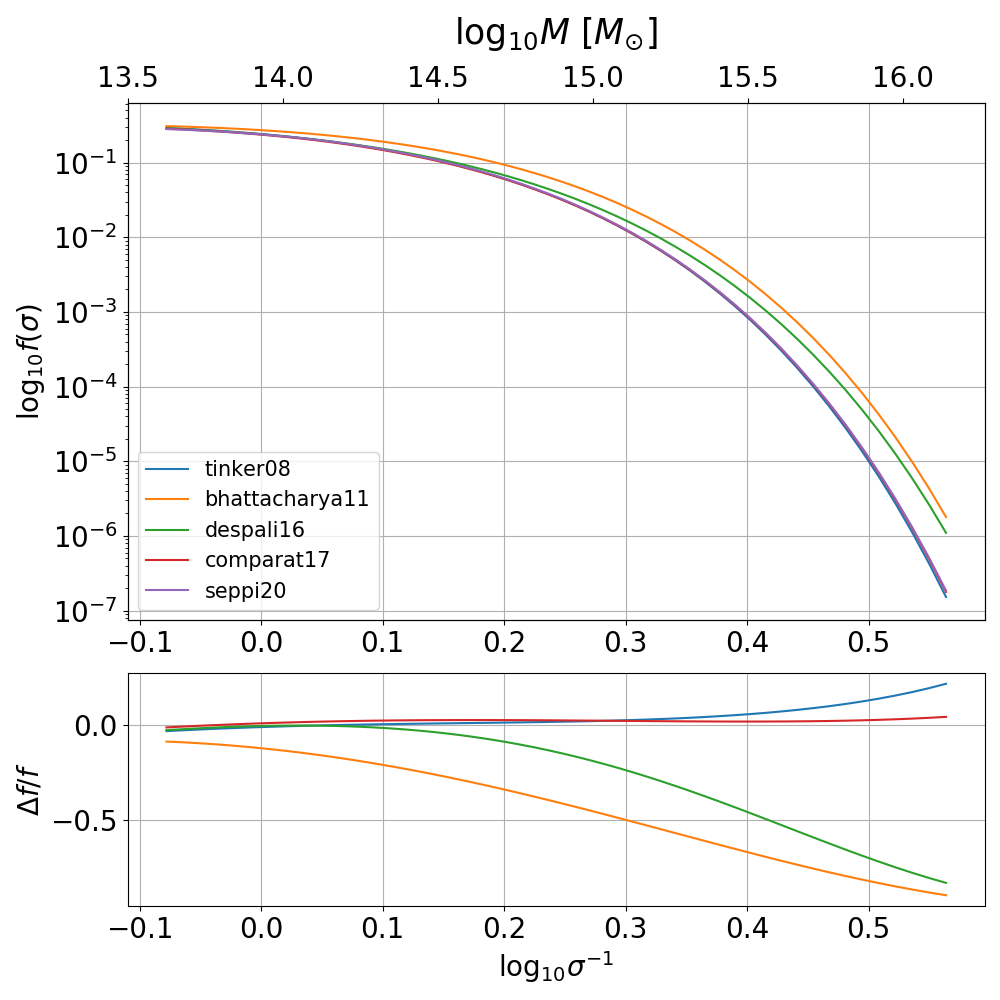
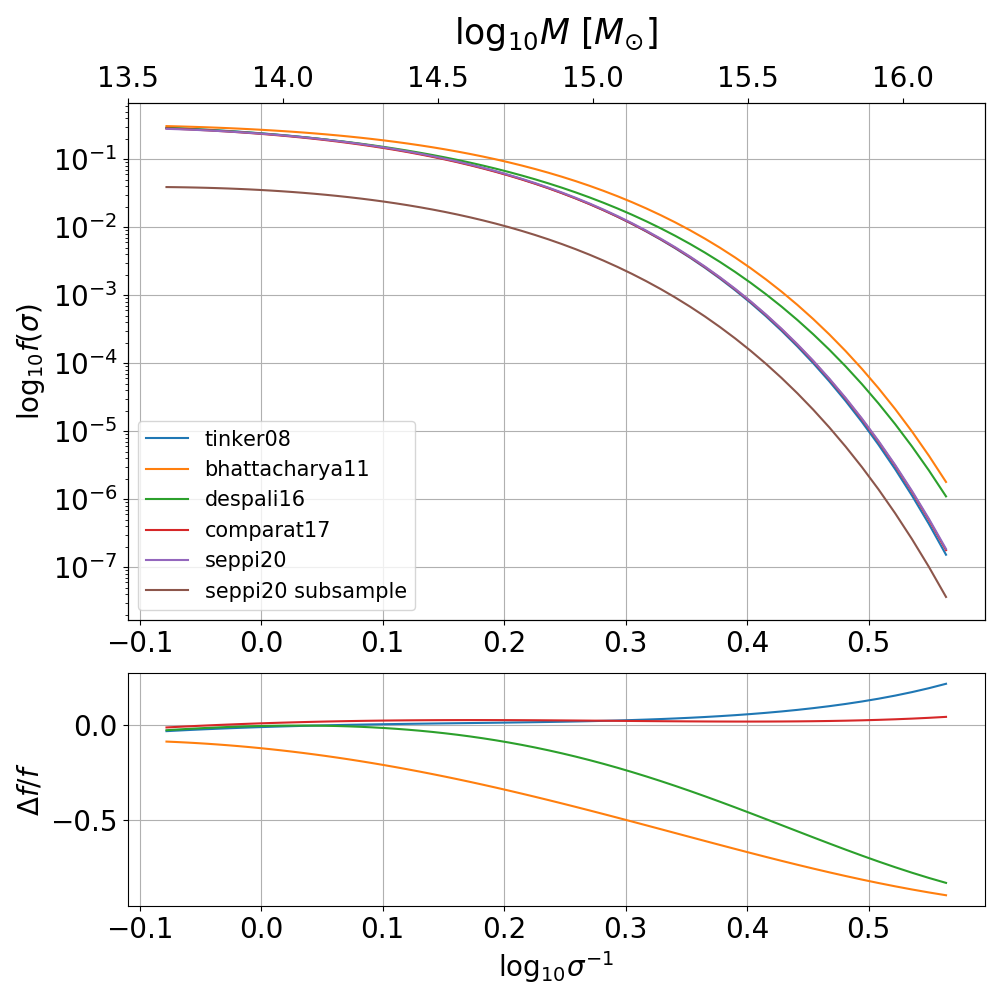
output f already integrated

diff --git a/HMF_dyn_state_colossus/model_seppi20.py b/HMF_dyn_state_colossus/model_seppi20.py
@@ -1,5 +1,6 @@
 from colossus.lss import peaks
 import numpy as np
+from scipy import integrate
 
 
 def seppi20(sigma,xoff,spin,z):
@@ -7,24 +8,21 @@ def seppi20(sigma,xoff,spin,z):
 	The mass function model of Seppi et al 2020.
 	
 	The model is specified in Equation 23.
-    Needs a meshgrid of sigma,xoff,spin.
-    You can create it with numpy.meshgrid.
-    Make sure to use indexing 'ij'.
     Calibrated for M > 4x10^13 Msun at z=0.
 	
 	Parameters
 	-----------------------------------------------------------------------------------------------
 	sigma: array_like
-		Variance; can be a number or a meshgrid with xoff and spin.
+		Variance; can be a number or an array.
     xoff: array_like
-        Offset parameter; can be a number or a meshgrid with sigma and spin.
+        Offset parameter; can be a number or array.
     spin: array_like
-        Spin parameter; can be a number or a meshgrid with sigma and xoff.
+        Spin parameter; can be a number or an array.
 		
 	Returns
 	-----------------------------------------------------------------------------------------------
-	h: array_like
-		The halo mass-xoff-spin function :math:`h(\\sigma,xoff,spin)`, has the same dimensions as the input meshgrid.
+	f: array_like
+		The halo mass function :math:`f(\\sigma)`, integrated on the given values on xoff and spin. It has the same dimensions as the input meshgrid.
 	"""
     zp1 = 1+z
     dc = peaks.collapseOverdensity(z = 0)    
@@ -39,8 +37,26 @@ def seppi20(sigma,xoff,spin,z):
     delta = 1.209*(zp1)**-0.0768
     e = -1.105*(zp1)**0.6123
 
-    model_log = A+np.log10(np.sqrt(2/np.pi)) + q*np.log10(np.sqrt(a)*dc/sigma) - a/2/np.log(10)*dc**2/sigma**2 + (alpha)*np.log10(xoff/10**(1.83*mu)) - 1/np.log(10)*(xoff/10**(1.83*mu))**(0.05*alpha) + gamma*np.log10(spin/(10**(mu))) - 1/np.log(10)*(xoff/10**(1.83*mu)/sigma**e)**(beta)*(spin/(10**(mu)))**(delta)   
-    return 10**model_log
+    if xoff is None:
+        xoff = np.logspace(-3.5,-0.3,50)
+    if spin is None:
+        spin = np.logspace(-3.5,-0.3,50)
+
+    sigma_,xoff_,spin_ = np.meshgrid(sigma,xoff,spin,indexing='ij')
+
+    h_log = A+np.log10(np.sqrt(2/np.pi)) + q*np.log10(np.sqrt(a)*dc/sigma_) - a/2/np.log(10)*dc**2/sigma_**2 + (alpha)*np.log10(xoff_/10**(1.83*mu)) - 1/np.log(10)*(xoff_/10**(1.83*mu))**(0.05*alpha) + gamma*np.log10(spin_/(10**(mu))) - 1/np.log(10)*(xoff_/10**(1.83*mu)/sigma_**e)**(beta)*(spin_/(10**(mu)))**(delta)   
+    h = 10**h_log
+
+    g = np.zeros((len(sigma),len(xoff)))
+    for i in range(len(sigma)):
+        for j in range(len(xoff)):
+            g[i,j] = integrate.simps(h[i,j,:],np.log10(spin))
+
+    f = np.zeros(len(sigma))
+    for i in range(len(sigma)):
+        f[i] = integrate.simps(g[i,:],np.log10(xoff))
+    
+    return f
 
 
 

diff --git a/test.py b/test.py
@@ -4,7 +4,6 @@ Example script about seppi20 implementation in colossus
 
 #import model and integrals
 from HMF_dyn_state_colossus import model_seppi20
-from HMF_dyn_state_colossus import integrals
 
 #import colossus
 from colossus.cosmology import cosmology
@@ -22,24 +21,23 @@ cosmo = cosmology.setCosmology('multidark-planck')
 #define variance, xoff, spin arrays
 mass_ = np.logspace(13.5,16,60)
 R = peaks.lagrangianR(mass_)
-sigma_ = cosmo.sigma(R,z=0)
-#sigma_ = np.linspace(0.3,1.2,60)
-xoff_ = np.logspace(-3,-0.3,50)
-spin_ = np.logspace(-3.1,-0.4,40)
+sigma = cosmo.sigma(R,z=0)
 
-#create meshgrid
-sigma,xoff,spin = np.meshgrid(sigma_,xoff_,spin_,indexing='ij')
+xoff = np.logspace(-3.5,-0.3,50)
+spin = np.logspace(-3.5,-0.3,50)
+
+xoff2 = np.logspace(-3.5,-1.5,30)
+spin2 = np.logspace(-3.5,-1.5,30)
 
 #build model and integrate it
-h = model_seppi20.seppi20(sigma,xoff,spin,z=0)
-g = integrals.int_h_dspin(sigma_,xoff_,spin_,h)
-f_sigma = integrals.int_f_sigma(sigma_,xoff_,g)
+f_sigma = model_seppi20.seppi20(sigma,xoff,spin,z=0)
+f_sigma2 = model_seppi20.seppi20(sigma,xoff2,spin2,z=0)
 
 #use bhattacharya11, despali16 and comparat17 for comparison
-mf_tinker=mf.massFunction(sigma_,q_in='sigma', z=0, mdef = 'vir', model = 'tinker08', q_out = 'f') 
-mf_bhattacharya=mf.massFunction(sigma_,q_in='sigma', z=0, model = 'bhattacharya11', q_out = 'f') 
-mf_comparat=mf.massFunction(sigma_,q_in='sigma', z=0, mdef = 'vir', model = 'comparat17', q_out = 'f') 
-mf_despali=mf.massFunction(sigma_,q_in='sigma', z=0, mdef = 'vir', model = 'despali16', q_out = 'f') 
+mf_tinker=mf.massFunction(sigma,q_in='sigma', z=0, mdef = 'vir', model = 'tinker08', q_out = 'f') 
+mf_bhattacharya=mf.massFunction(sigma,q_in='sigma', z=0, model = 'bhattacharya11', q_out = 'f') 
+mf_comparat=mf.massFunction(sigma,q_in='sigma', z=0, mdef = 'vir', model = 'comparat17', q_out = 'f') 
+mf_despali=mf.massFunction(sigma,q_in='sigma', z=0, mdef = 'vir', model = 'despali16', q_out = 'f') 
 
 #function to convert log10(1/sigma) to Mass
 def Mass_sigma(x):
@@ -52,7 +50,7 @@ fig = plt.figure(figsize=(10,10))
 gs = fig.add_gridspec(3,1)
 ax1 = fig.add_subplot(gs[0:2, :])
 ax2 = fig.add_subplot(gs[2, :])
-x = np.log10(1/sigma_)
+x = np.log10(1/sigma)
 r1 = (f_sigma-mf_tinker)/mf_tinker
 r2 = (f_sigma-mf_bhattacharya)/mf_bhattacharya
 r3 = (f_sigma - mf_despali)/mf_despali
@@ -62,6 +60,7 @@ ax1.plot(x,mf_bhattacharya,label='bhattacharya11')
 ax1.plot(x,mf_despali,label='despali16')
 ax1.plot(x,mf_comparat,label='comparat17')
 ax1.plot(x,f_sigma,label='seppi20')
+ax1.plot(x,f_sigma2,label='seppi20 subsample')
 #ax1.plot(x,h[:,25,20],label='slice seppi20')
 ax2.plot(x,r1)
 ax2.plot(x,r2)
